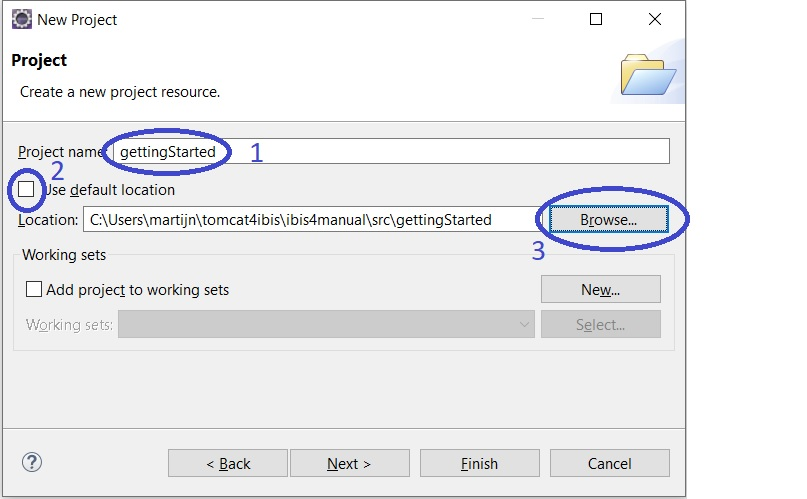
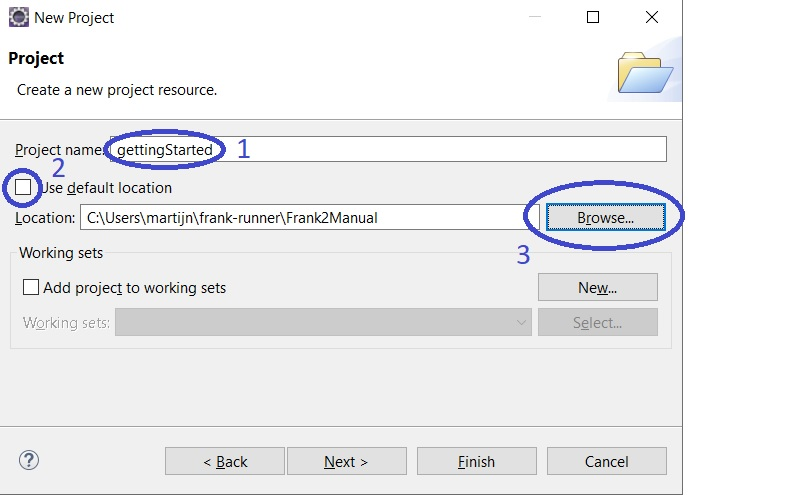
Update configuration management for single config

diff --git a/docs/source/gettingStarted/configurationManagement1.rst b/docs/source/gettingStarted/configurationManagement1.rst
@@ -6,160 +6,128 @@ Configuration Management
 Introduction
 ------------
 
-In subsections :ref:`helloIbis` to :ref:`gettingStartedLarva`, you got a basic understanding of the Frank!Framework. You used the Frank!Runner project to run the Frank!Framework with an example configuration. You learned the basic concepts by studying this configuration. You also learned how configurations can be tested.
+In subsections :ref:`helloIbis` to :ref:`gettingStartedLarva`, you got a basic understanding of the Frank!Framework. You used the Frank!Runner with its example Frank configurations to run the Frank!Framework. You learned the basic concepts by studying these configurations. You also learned how configurations can be tested.
 
-In this section you start your own project and you build your first configuration. You will gain access to an additional source of documentation, the Frank!Doc, which you can reach through the web interface of the Frank!Framework, the Frank!Console. Frank configurations are written in XML. They satisfy an XML Schema, the Frank configuration schema, which can be downloaded from the Frank!Console. You will learn how to use this schema when you type your Frank configuration. You will have automatic code completion and tooltips in your text editor.
+It was explained that Frank configurations are independent of the Frank!Framework instance on which they are deployed. In this section you setup your own instance of the Frank!Framework for development, resulting in a common directory tree for everything you do while studying the Frank!Manual. You will test your setup by deploying the "Example1" configuration of the Frank!Runner on your instance. This "Example1" config has all XML in one file, namely ``Configuration.xml``. For larger Frank configs it is better to divide the XML of a config over multiple files, such that each adapter has its own XML file. You will practice this by modifying your deployment of "Example1".
 
-If you want to check your work in this section and in the remaining sections of chapter :ref:`gettingStarted`, you can download the :download:`solution <../downloads/gettingStarted.zip>`. You can also download the :download:`result of doing only this page <../downloads/gettingStartedAfterConfig.zip>`.
-
-Initialize your project
------------------------
+Set up your instance
+--------------------
 
 .. highlight:: none
 
-After installing Frank!Runner, you should have a folder ``projects`` with a folder ``frank-runner`` inside. This ``frank-runner`` folder is your checkout of Frank!Runner. Please continue as follows:
+To set up your instance, please do the following:
 
-#. Within the ``projects`` directory, create a subdirectory ``gettingStarted``. Please create subdirectories of ``gettingStarted`` to arrive at the following directory structure: ::
+#. If you did not do so, install the Frank!Runner as explained in :ref:`frankRunnerInstallation`.
+#. Create the root directory of your instance, ``Frank2Manual`` as a brother of your ``frank-runner`` directory. Give it two subdirectories ``configurations`` and ``tests``. You should arrive at the following directory tree: ::
 
-     projects
+     franks
      |- frank-runner
-     |- gettingStarted
-        |- classes
+        |- examples
+           |- Frank2Example1
+              |- configurations
+                 |- Example1
+                    |- ...
+                 |- ...
+              |- tests
+                 |- Example1
+                    |- ...
+                 |- ...
+           |- ...
+        |- ...
+     |- Frank2Manual
         |- configurations
         |- tests
 
-#. The directory ``classes`` contains code that is common to all Frank configurations within your Frank. The ``tests`` folder holds Larva tests while each configuration is within a subdirectory of ``configurations``.
-#. You want the Frank!Framework to run ``gettingStarted`` when you start it. To achieve this, create file ``build.properties`` within the ``frank-runner`` directory. Give ``build.properties`` the following contents: ::
+   .. NOTE::
 
-     project.dir=gettingStarted
+      WeAreFrank! encourages you to name all your instances like "Frank2Something". You express that you are frank, honest, open to the subject of your work.
 
-#. The Frank!Framework expects a Frank configuration within the ``classes`` directory for historical reasons. You do not want your real Frank configurations there because the ``classes`` folder is for common code of all your configurations. Within your ``classes`` directory, add a ``Configuration.xml`` file with the following contents:
+#. Create file ``franks/frank-runner/build.properties`` and give it the following contents: ::
+
+     project.dir=Frank2Manual
+
+#. Deploy configuration "Example1" of the Frank!Runner on your instance by copying ``franks/frank-runner/examples/Frank2Example1/configurations/Example1`` to ``franks/Frank2Manual/configurations/Example1``.
+#. Deploy the corresponding tests by copying ``franks/frank-runner/examples/Frank2Example1/tests/Example1`` to ``franks/Frank2Manual/tests/Example1``. After this step, your ``Frank2Manual`` directory should look as follows: ::
+
+     Frank2Manual
+     |- configurations
+        |- Example1
+           |- ...
+     |- tests
+        |- Example1
+           |- ...
+
+#. Start the Frank!Runner as explained before. You may use ``franks/frank-runner/start.bat``.
+#. Browse to http://localhost. You should see the Adapter Status page as shown:
+
+   .. image:: configurationManagementVerifyInstance.jpg
+
+#. Verify that the name of your instance is "Frank2Manual" (number 1).
+#. Verify that you have configuration "Example1" (number 2).
+#. In the main menu, expand "Testing" and select "Larva". You see the shown page:
+
+   .. image:: runLarva.jpg
+
+#. You see you are in Larva (number 1). Select directory "Example1" (number 2).
+#. Press "start" (number 3).
+#. Verify that your tests succeeded (number 5).
+
+Give Example1Adapter its own XML file
+-------------------------------------
+
+You will split ``Frank2Manual/configurations/Example1/Configuration.xml`` now such that each adapter gets its own file. Please do the following:
+
+#. Create file ``Frank2Manual/configurations/Example1/ConfigurationExample1Adapter.xml``. Fill it by copying a part of ``Frank2Manual/configurations/Example1/Configuration.xml``. You need the text of the ``<Adapter>`` element, including the opening ``<Adapter>``, the closing ``</Adapter>`` and everything in between.
+#. Before this text, add the following:
 
    .. code-block:: XML
 
-      <Configuration name="${instance.name}">
-        <jmsRealms>
-          <jmsRealm datasourceName="jdbc/${instance.name.lc}" realmName="jdbc"/>
-        </jmsRealms>
-      </Configuration>
+      <Module
+        xmlns:xsi="http://www.w3.org/2001/XMLSchema-instance"
+        xsi:noNamespaceSchemaLocation="./ibisdoc.xsd">
 
-#. The Frank!Framework does not automatically detect what configurations you have. In your ``classes`` directory, please add property file ``DeploymentSpecifics.properties`` with the following contents: ::
-
-     instance.name=gettingStarted
-     configurations.names=${instance.name}
+   You need this text in the next section to have syntax checking in our text editor. It does not influence the way the Frank config works.
    
    .. NOTE::
 
-      There is much to know about properties, which is explained in section :ref:`properties`. If you read this chapter for the first time, please finish it first. For now, just note that property ``configuration.names`` contains a list of all your configurations. The empty configuration you just added is referenced as ``${instance.name}``, the value of property ``instance.name``.
+      These lines mean the following. First comes a namespace declaration to define namespace prefix "xsi". Then the attribute "noNamespaceSchemaLocation" within namespace "http://www.w3.org/2001/XMLSchema-instance" is set to reference an XML schema file named "./ibisdoc.xsd". In the next section you will download this schema file. For more information on XML namespaces see http://www.xmlmaster.org/en/article/d01/c10/#declaration.
 
-#. During development, you also want to run Larva tests. To run Larva tests, the Frank!Framework needs to process changed versions of your Frank configurations (your files are not changed; they are changed in memory after the Frank!Framework reads them). Please add ``classes\StageSpecifics_LOC.properties`` to tell the Frank!Framework you want this. The contents should be: ::
+#. To the end, add the closing ``</Module>`` tag.
 
-     stub4testtool.configuration=true
+   .. WARNING..
 
-Frank configuration schema
---------------------------
+      Do not add an ``<?xml ... ?>`` declaration. The ``ConfigurationExample1Adapter.xml`` will be included literally, which would result in invalid syntax for the total XML.
 
-You will download the Frank configuration schema now.
-
-7. Please start the Frank!Framework by running ``frank-runner\start.bat``.
-#. With your webbrowser, browse to http://localhost.
-#. Click "Webservices" as shown in the figure below:
-
-   .. image:: webservicesMenu.jpg
-
-#. Click "IbisDoc":
-
-   .. image:: webservicesPage.jpg
-
-#. Right-click "ibisdoc.xsd" (number 1 in the picture below):
-
-   .. image:: ibisDocFiles.jpg
-
-#. A menu appears that lets you choose what to do with "ibisdoc.xsd". Please choose to download it. You will need it later.
-
-Frank!Doc
----------
-
-From the screen shown at step 11, you can access the Frank!Doc, an additional source of documentation. It lets you search pipes, senders and receivers and it gives you detailed information.
-
-13. In the picture of step 11, press "The new ibisdoc application" (number 2). The following screen appears:
-
-     .. image:: frankDoc.jpg
-
-#. As an example, we want to see detailed information about the ``<FixedResultPipe>``. To the top-left, click "Pipes" (number 1). To the bottom-left, all available pipes are listed.
-#. Click "FixedResultPipe" (number 2). To the right, a page with detailed information appears. To the top it confirmst that it is about FixedResultPipe (number 3). You see the attribute you know already, "returnString" (number 4).
-#. Each pipe, sender or receiver corresponds to a Java class in the source code of the Frank!Framework. You can see the Javadoc documentation of this class by clicking "Javadoc" (number 5). This information is written for Java developers, but it may be useful sometimes for Frank developers.
-
-Add your configuration
-----------------------
-
-Now that you have your project, you can add your real Frank configuration to your ``gettingStarted`` project. Please proceed as follows:
-
-#. Update your file ``classes\DeploymentSpecifics.properties`` to list a new configuration ``NewHorizons``. It should become as follows: ::
-
-     instance.name=gettingStarted
-     configurations.names=${instance.name},NewHorizons
-     configurations.NewHorizons.classLoaderType=DirectoryClassLoader
-
-#. Within your ``configurations`` directory, please add subdirectory ``NewHorizons``.
-#. A configuration usually requires many lines of XML. It is good practice to split a configuration over multiple files. This is done using entity references. Please create ``configurations\NewHorizons\Configuration.xml`` with the following contents:
+#. Replace the contents of ``Frank2Manual/configurations/Example1/Configuration.xml`` with the following:
 
    .. code-block:: XML
 
       <?xml version="1.0" encoding="UTF-8" ?>
       <!DOCTYPE configuration [
-        <!ENTITY Hello SYSTEM "ConfigurationHello.xml">
+        <!ENTITY ConfigurationExample1Adapter SYSTEM "ConfigurationExample1Adapter.xml">
       ]>
-      <Configuration name="NewHorizons">
-        &Hello;
+      <Configuration name="Example1">
+        &ConfigurationExample1Adapter;
       </Configuration>
 
-#. This Configuration.xml does a literal include of file ``ConfigurationHello.xml``. Please add ``configurations\NewHorizons\ConfigurationHello.xml`` with the following contents:
+   You see an XML entity declaration and a reference to it. For more information see https://xmlwriter.net/xml_guide/entity_declaration.shtml.
 
-   .. literalinclude:: ../../../src/gettingStarted/configurations/NewHorizons/ConfigurationHello.xml
-      :language: xml
-      :emphasize-lines: 1, 2, 3, 9
+#. Refresh your configuration in the Adapter Status screen with the button annotated with number 1:
 
-#. Please look at ``ConfigurationHello.xml`` for a moment. Line 1 wraps your adapter in the ``<Module>`` tag. This tag does not have a meaning. Its purpose is to arrive at valid XML, also if your include file has multiple adapters. The ``<Module>`` tag is also expected by the XML schema ``ibisdoc.xsd``. Code completion will not work without the ``<Module>`` tag.
-#. Lines 2 and 3 are needed to tell your text editor to check against XML schema file ``ibisdoc.xsd``. You downloaded that file earlier. Please copy it now to ``configurations\NewHorizons\ibisdoc.xsd``, making it a brother of ``ConfigurationHello.xml``.
-#. Line 9 (also highlighted) holds the output string of your Hello World adapter. It reads ``Hello Docker World``.
-#. Please restart Frank!Runner. Run your "HelloDockerWorld" adapter in the Test Pipeline screen and check that the output is ``Hello Docker World``. If this is the case, you succeeded initializing your project.
-#. If something is wrong, please compare your files with the examples of Frank!Runner, or with the :download:`result of only doing this page <../downloads/gettingStartedAfterConfig.zip>`.
+   .. image:: adapterStatusTopRight.jpg
 
-Try code completion
--------------------
+#. Using Testing | Test Pipeline (see section :ref:`helloTestPipeline`), check that adapter "Example1Adapter" still works.
+#. You can lookup the source code loaded by the Frank!Runner to check that refreshing succeeded. In the main menu, expand "Configuration" (number 1 in the figure below) and select "Show Configuration" (number 2).
 
-For code completion, you need to configure your text editor. Below, Visual Studio Code and Eclipse are covered.
+   .. image:: mainMenuConfiguration.jpg
 
-Visual Studio Code
-------------------
+#. You see the page shown below. You get confirmation that you are on the right page (number 1). Please select the tab of configuration "Example1" (number 2).
 
-Please do the following to configure Visual Studio Code for code completion:
+   .. image:: configurationModifiedExample1.jpg
 
-#. Press the plugin menu item (number 1 in the figure below).
+#. Select "Original Configuration" (number 3).
+#. Check that there is a ``<Module>`` tag (number 4). The original "Example1" configuration does not have this tag, so the ``<Module>`` tag confirms that your modifications have been loaded.
 
-   .. image:: visualStudioCodePlugins.jpg
+   .. NOTE::
 
-#. Install the two plugins shown (number 2).
-#. Open ``ConfigurationHello.xml``. After the ``</Adapter>`` element close tag, start typing ``<A``. The editor should give you a hint that you mean ``<Adapter>``. You should also see a "i" icon to get more information.
-
-Eclipse
--------
-
-Please do the following to configure Eclipse for code completion:
-
-#. Open Eclipse and choose the workspace you want.
-#. In the menu, choose File | New | Project... . The New Project dialog appears (number 1 in the figure below):
-
-   .. image:: eclipseNewProject.jpg
-
-#. Choose "Project" (number 2) and press "Next".
-#. Enter a project name (number 1 in the figure below). Uncheck "Use default location" (number 2). Browse (number 3) to ``projects\gettingStarted``. Press "Finish".
-
-   .. image:: eclipseNewProjectNext.jpg
-
-#. A new project has appeared in your project explorer (number 1 in the fingure below). Please open ``ConfigurationHello.xml`` (number 2).
-
-   .. image:: eclipseProjectExplorer.jpg
-
-#. After the ``</Adapter>`` closing tag, please start typing ``<Ad``. Eclipse should present a hint that you mean ``<Adapter>``.
+      You see here the result of replacing the entity reference ``&ConfigurationExample1Adapter;`` with the included file. The entity declaration has been removed. If file ``ConfigurationExample1Adapter.xml`` had an ``<?xml ... ?>`` declaration, then the expanded XML would have this declaration twice, corrupting the XML syntax.

diff --git a/docs/source/gettingStarted/configurationSyntaxChecking.rst b/docs/source/gettingStarted/configurationSyntaxChecking.rst
@@ -1,0 +1,108 @@
+.. configurationSyntaxChecking:
+
+Syntax Checking and the Frank!Doc
+=================================
+
+Introduction
+------------
+
+In this section, you learn how to reach some additional resources that help you to write correct Frank configs. You will gain access to an additional source of documentation, the Frank!Doc, which you can reach through the Frank!Console. Frank configurations are written in XML. They satisfy an XML Schema, the Frank configuration schema, which can be downloaded from the Frank!Console. You will learn how to use this schema when you type your Frank configuration. You will have automatic code completion and tooltips in your text editor.
+
+Preparation
+-----------
+
+Please do the following preparations:
+
+#. If you did not do so, set up your ``Frank2Manual`` instance of the Frank!Framework as explained in the previous section.
+#. Ensure that you have a file ``ConfigurationExample1Adapter.xml`` with the following contents:
+
+   .. code-block:: XML
+
+      <Module
+        xmlns:xsi="http://www.w3.org/2001/XMLSchema-instance"
+        xsi:noNamespaceSchemaLocation="./ibisdoc.xsd">
+      <Adapter name="Example1Adapter">
+        <Receiver name="Example1Receiver">
+          <JavaListener name="Example1" serviceName="Example1"/>
+        </Receiver>
+        <Pipeline firstPipe="Example">
+          <FixedResultPipe name="Example" returnString="Hello World1">
+            <Forward name="success" path="EXIT"/>
+          </FixedResultPipe>
+          <Exit path="EXIT" state="success"/>
+        </Pipeline>
+      </Adapter>
+      </Module>
+
+   You should have this file if you successfully followed the instructions of the previous section. You will try syntax checking by editing this file in Visual Studio Code or Eclipse.
+
+Frank configuration schema
+--------------------------
+
+Please do the following to download the Frank configuration schema:
+
+#. Click "Webservices" as shown in the figure below:
+
+   .. image:: webservicesMenu.jpg
+
+#. Click "IbisDoc":
+
+   .. image:: webservicesPage.jpg
+
+#. Right-click "ibisdoc.xsd" (number 1 in the picture below):
+
+   .. image:: ibisDocFiles.jpg
+
+#. A menu appears that lets you choose what to do with "ibisdoc.xsd".
+#. Put file ``ibisdoc.xsd`` in the same directory as ``ConfigurationExample1Adapter.xml``.
+
+Frank!Doc
+---------
+
+From the screen shown at step 2, you can access the Frank!Doc, an additional source of documentation. It lets you search pipes, senders and receivers and it gives you detailed information.
+
+6. In the picture of step 3, press "The new ibisdoc application" (number 2). The following screen appears:
+
+   .. image:: frankDoc.jpg
+
+#. As an example, we want to see detailed information about the ``<FixedResultPipe>``. To the top-left, click "Pipes" (number 1). To the bottom-left, all available pipes are listed.
+#. Click "FixedResultPipe" (number 2). To the right, a page with detailed information appears. To the top it confirmst that it is about FixedResultPipe (number 3). You see the attribute you know already, "returnString" (number 4).
+#. Each pipe, sender or receiver corresponds to a Java class in the source code of the Frank!Framework. You can see the Javadoc documentation of this class by clicking "Javadoc" (number 5). This information is written for Java developers, but it may be useful sometimes for Frank developers.
+
+Try code completion
+-------------------
+
+For code completion, you need to configure your text editor. Below, Visual Studio Code and Eclipse are covered.
+
+Visual Studio Code
+------------------
+
+Please do the following to configure Visual Studio Code for code completion:
+
+#. Press the plugin menu item (number 1 in the figure below).
+
+   .. image:: visualStudioCodePlugins.jpg
+
+#. Install the two plugins shown (number 2).
+#. Open ``ConfigurationExample1Adapter.xml``. After the ``</Adapter>`` element close tag, start typing ``<A``. The editor should give you a hint that you mean ``<Adapter>``. You should also see a "i" icon to get more information.
+
+Eclipse
+-------
+
+Please do the following to configure Eclipse for code completion:
+
+#. Open Eclipse and choose the workspace you want.
+#. In the menu, choose File | New | Project... . The New Project dialog appears (number 1 in the figure below):
+
+   .. image:: eclipseNewProject.jpg
+
+#. Choose "Project" (number 2) and press "Next".
+#. Enter a project name (number 1 in the figure below). Uncheck "Use default location" (number 2). Browse (number 3) to ``Frank2Manual``. Press "Finish".
+
+   .. image:: eclipseNewProjectNext.jpg
+
+#. A new project has appeared in your project explorer (number 1 in the fingure below). Please open ``ConfigurationExample1Adapter.xml`` (number 2).
+
+   .. image:: eclipseProjectExplorer.jpg
+
+#. After the ``</Adapter>`` closing tag, please start typing ``<Ad``. Eclipse should present a hint that you mean ``<Adapter>``.

diff --git a/docs/source/gettingStarted/gettingStarted.rst b/docs/source/gettingStarted/gettingStarted.rst
@@ -15,6 +15,7 @@ This chapter can be studied in two ways. First, it is a tutorial. There are inst
    helloTestPipeline
    helloLarva
    configurationManagement1
+   configurationSyntaxChecking
    newHorizons
    horizonsInterfaces
    horizonsInitialData
